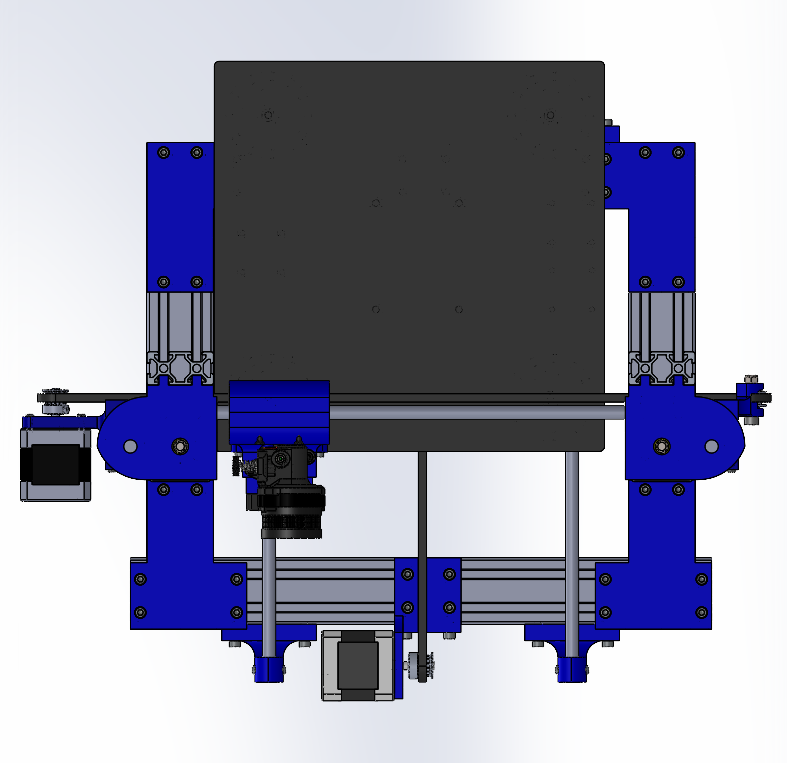
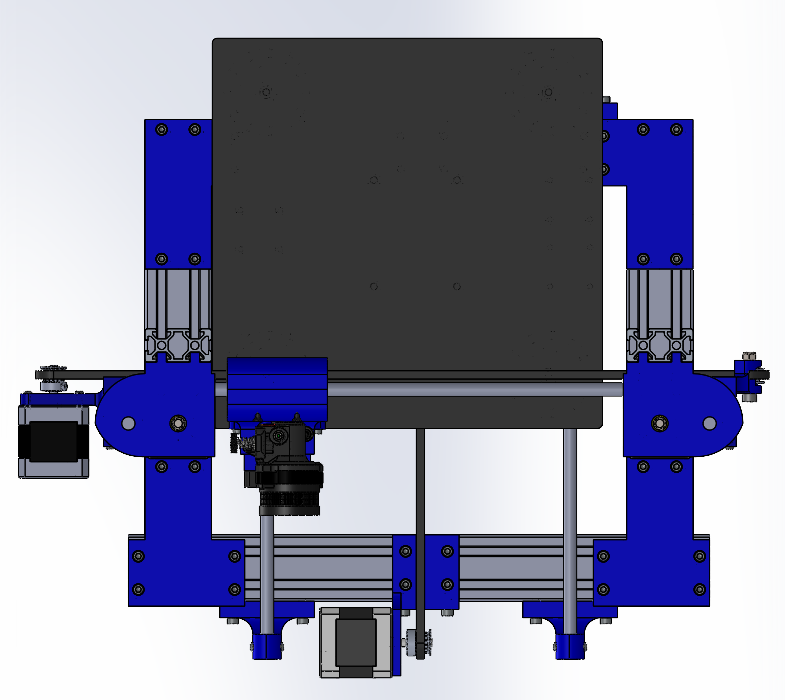
fix img sizes

Changed region(s): [[0.0, 0.03, 0.9783, 0.99], [0.7643, 0.12, 0.8866, 0.3]]

diff --git a/README.rst b/README.rst
@@ -7,9 +7,9 @@ Views:
 
 .. list-table:: 
 
-    * - .. figure:: ./imgs/full_assembly.gif
+    * - .. figure:: ./imgs/prusa-gif.gif
 
-           Fig 1. 
+           Fig 1. Perspective View
 
       - .. figure:: ./imgs/prusa4.PNG
 
